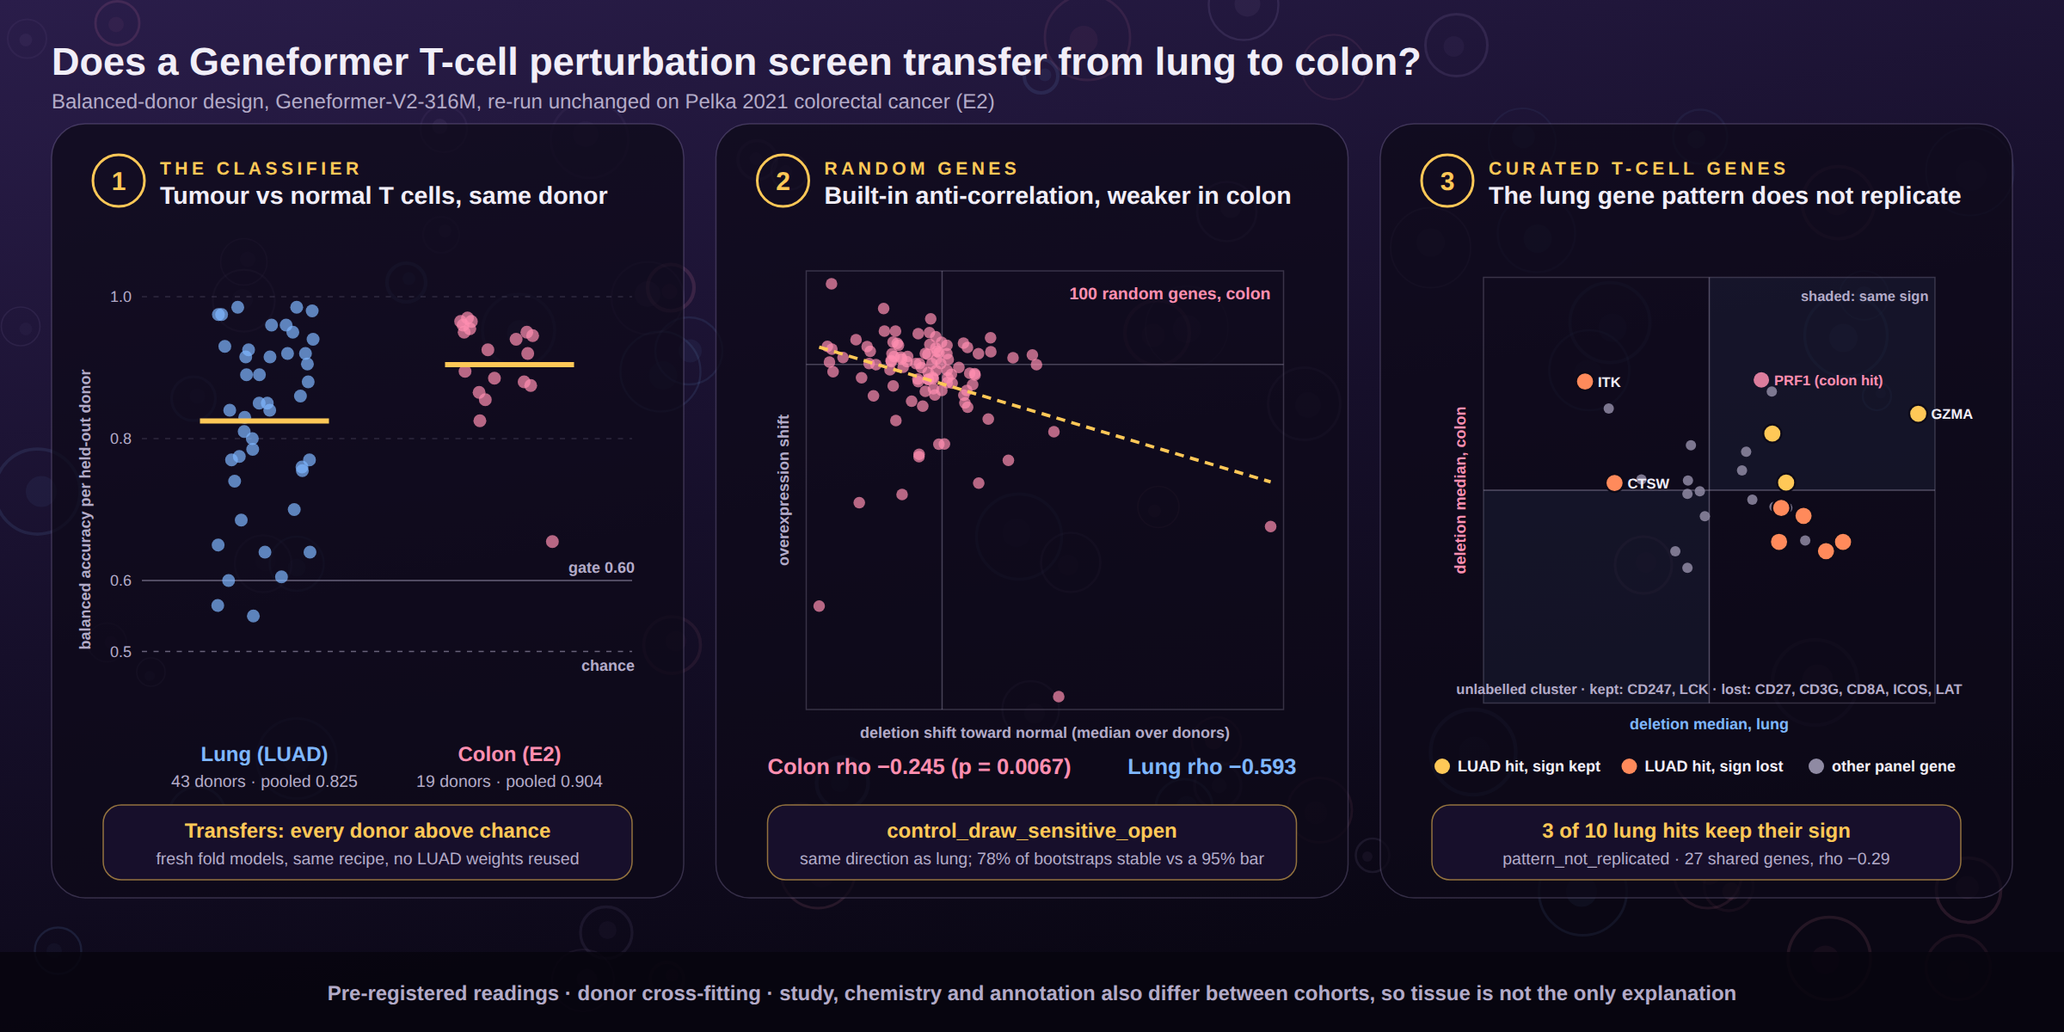
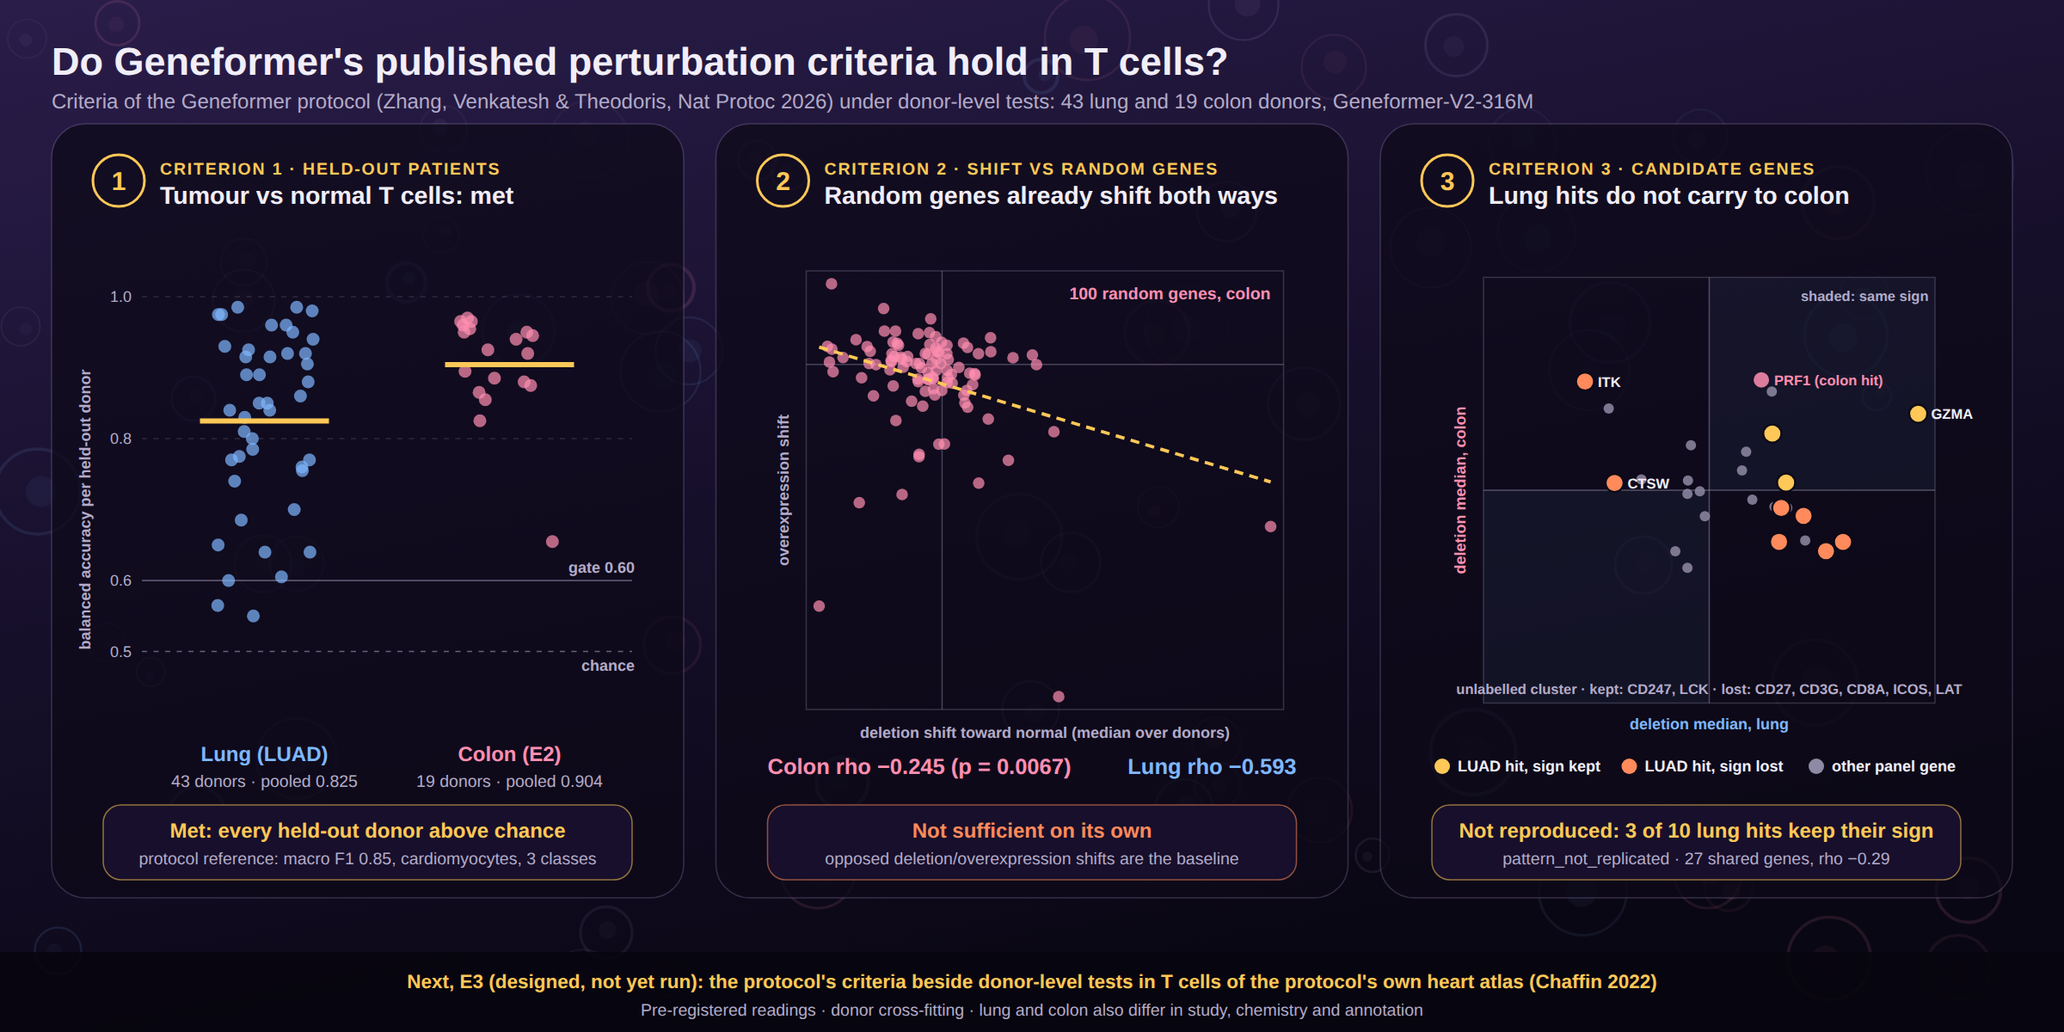
Graphical abstract reframed around the Geneformer protocol's criteria; E3 design
- docs/graphical-abstract: the three panels now test the protocol's
  evaluation criteria (Zhang, Venkatesh & Theodoris, Nat Protoc 2026):
  held-out-patient classification (met in lung and colon), the shift
  compared with random genes (not sufficient: random genes already give
  opposed deletion/overexpression shifts), and candidate genes (lung hits
  not reproduced in colon). The footer points to E3. Every number is still
  recomputed or checked against committed files.
- protocol_criteria_e3/E3_DESIGN.md: draft design, not registered and not
  run. It applies the protocol's criteria exactly as published, next to
  ISP-STD-1 donor-level tests, to T cells of the protocol's own example
  atlas (Chaffin et al. 2022), after a gating cardiomyocyte arm that must
  reproduce the protocol's macro F1 0.85 and its GSN result. Stage 0
  feasibility rule, hypotheses H3a-H3e and readings are fixed in advance.
  Needs the human's GO for the download and GPU time, and a gatekeeper pass.
- README: framing paragraph on the protocol's criteria and an E3 note.

Claude-Session: https://claude.ai/code/session_01HHetfVCDDo33ghsts68YFG

diff --git a/docs/graphical-abstract/build.py b/docs/graphical-abstract/build.py
@@ -69,6 +69,8 @@ in_readme(f"rho {prim['rho']:.3f} (p = {prim['p_lower_tail']:.4f})".replace("-",
 in_readme(f"only {round(100 * prim['bootstrap_fraction_stable'])}% of gene bootstraps")
 in_readme(f"`{prim['status']}`")
 in_readme("(rho −0.593)")
+in_readme("E3")
+in_readme("Chaffin")
 
 h2c = load("pelka_crc_e2/results/h2c_result.json")
 luad = {x["symbol"]: x for x in load("balanced_donor_luad/phase7_results/outcome_rows.json")
@@ -116,7 +118,7 @@ def frame(x0: float, num: str, kicker: str, title: str) -> str:
         f'stroke="#c9b8f0" stroke-opacity="0.22"/>',
         f'<circle cx="{x0 + 52}" cy="140" r="20" fill="none" stroke="{GOLD}" stroke-width="2"/>',
         text(x0 + 52, 147, num, 20, 800, GOLD, "middle"),
-        text(x0 + 84, 135, kicker, 14, 800, GOLD, extra='letter-spacing="3"'),
+        text(x0 + 84, 135, kicker, 13, 800, GOLD, extra='letter-spacing="1.2"'),
         text(x0 + 84, 158, title, 19, 700),
     ])
 
@@ -131,7 +133,7 @@ def callout(x0, y, line1, line2, col=GOLD):
 
 # ------------------------------------------------------------------ panel 1
 def panel_classifier(x0: float) -> str:
-    out = [frame(x0, "1", "THE CLASSIFIER", "Tumour vs normal T cells, same donor")]
+    out = [frame(x0, "1", "CRITERION 1 · HELD-OUT PATIENTS", "Tumour vs normal T cells: met")]
     lo, hi = 0.4, 1.0
     sy = lambda v: 560 - 330 * (v - lo) / (hi - lo)
     for v in (0.5, 0.6, 0.8, 1.0):
@@ -152,13 +154,13 @@ def panel_classifier(x0: float) -> str:
         out.append(text(cx, 610, f"{len(vals)} donors · pooled {pooled:.3f}", 13, 400, MUTED, "middle"))
     out.append(text(x0 + 30, sy(0.7), "balanced accuracy per held-out donor", 12, 600, MUTED, "middle",
                     f'transform="rotate(-90 {x0 + 30} {sy(0.7):.1f})"'))
-    out.append(callout(x0, 624, "Transfers: every donor above chance", "fresh fold models, same recipe, no LUAD weights reused"))
+    out.append(callout(x0, 624, "Met: every held-out donor above chance", "protocol reference: macro F1 0.85, cardiomyocytes, 3 classes"))
     return "\n".join(out)
 
 
 # ------------------------------------------------------------------ panel 2
 def panel_null(x0: float) -> str:
-    out = [frame(x0, "2", "RANDOM GENES", "Built-in anti-correlation, weaker in colon")]
+    out = [frame(x0, "2", "CRITERION 2 · SHIFT VS RANDOM GENES", "Random genes already shift both ways")]
     pad = 0.08
     xs, ys = dele, ovx
     xr = (min(xs), max(xs)); yr = (min(ys), max(ys))
@@ -182,14 +184,14 @@ def panel_null(x0: float) -> str:
     out.append(text(x0 + 430, 232, f"100 random genes, colon", 13, 700, COLON, "end"))
     out.append(text(x0 + 40, 600, f"Colon rho {prim['rho']:.3f} (p = {prim['p_lower_tail']:.4f})".replace("-", "\u2212"), 17, 800, COLON))
     out.append(text(x0 + 450, 600, "Lung rho −0.593", 17, 800, LUNG, "end"))
-    out.append(callout(x0, 624, "control_draw_sensitive_open",
-                       f"same direction as lung; {round(100 * prim['bootstrap_fraction_stable'])}% of bootstraps stable vs a 95% bar"))
+    out.append(callout(x0, 624, "Not sufficient on its own",
+                       "opposed deletion/overexpression shifts are the baseline", CORAL))
     return "\n".join(out)
 
 
 # ------------------------------------------------------------------ panel 3
 def panel_genes(x0: float) -> str:
-    out = [frame(x0, "3", "CURATED T-CELL GENES", "The lung gene pattern does not replicate")]
+    out = [frame(x0, "3", "CRITERION 3 · CANDIDATE GENES", "Lung hits do not carry to colon")]
     xs = [luad[g]["del_median"] for g in shared]
     ys = [crc[g]["del_median"] for g in shared]
     lim = max(abs(v) for v in xs + ys) * 1.08
@@ -226,7 +228,7 @@ def panel_genes(x0: float) -> str:
         cx = lx + 8 + j * 145
         out.append(f'<circle cx="{cx}" cy="{ly - 4}" r="6" fill="{col}"/>')
         out.append(text(cx + 12, ly, lab, 12, 600))
-    out.append(callout(x0, 624, f"{len(agree)} of {len(tested)} lung hits keep their sign",
+    out.append(callout(x0, 624, f"Not reproduced: {len(agree)} of {len(tested)} lung hits keep their sign",
                        f"pattern_not_replicated · {len(shared)} shared genes, rho {rho_b:.2f}".replace("-", "\u2212").replace("pattern\u2212not\u2212replicated", "pattern_not_replicated")))
     return "\n".join(out)
 
@@ -243,12 +245,12 @@ def svg() -> str:
     return "\n".join([
         f'<svg xmlns="http://www.w3.org/2000/svg" viewBox="0 0 {W} {H}" width="{W}" height="{H}" '
         f'font-family="Inter, \'Liberation Sans\', \'DejaVu Sans\', sans-serif">', DEFS, backdrop(),
-        text(40, 58, "Does a Geneformer T-cell perturbation screen transfer from lung to colon?", 30, 800),
-        text(40, 84, "Balanced-donor design, Geneformer-V2-316M, re-run unchanged on Pelka 2021 colorectal cancer (E2)", 16, 400, MUTED),
+        text(40, 58, "Do Geneformer's published perturbation criteria hold in T cells?", 30, 800),
+        text(40, 84, "Criteria of the Geneformer protocol (Zhang, Venkatesh & Theodoris, Nat Protoc 2026) under donor-level tests: 43 lung and 19 colon donors, Geneformer-V2-316M", 16, 400, MUTED),
         panel_classifier(40), panel_null(555), panel_genes(1070),
         f'<rect x="0" y="{H - 62}" width="{W}" height="62" fill="#07050e" fill-opacity="0.85"/>',
-        text(W / 2, H - 25, "Pre-registered readings · donor cross-fitting · study, chemistry and annotation also "
-             "differ between cohorts, so tissue is not the only explanation", 16, 600, MUTED, "middle"),
+        text(W / 2, H - 34, "Next, E3 (designed, not yet run): the protocol's criteria beside donor-level tests in T cells of the protocol's own heart atlas (Chaffin 2022)", 15, 700, GOLD, "middle"),
+        text(W / 2, H - 13, "Pre-registered readings · donor cross-fitting · lung and colon also differ in study, chemistry and annotation", 13, 400, MUTED, "middle"),
         "</svg>"])
 
 

diff --git a/protocol_criteria_e3/E3_DESIGN.md b/protocol_criteria_e3/E3_DESIGN.md
@@ -1,0 +1,138 @@
+# E3 design: the Geneformer protocol's evaluation criteria in T cells of the protocol's own atlas
+
+**Status: DRAFT DESIGN, not registered. Nothing has been downloaded, tokenised, fine-tuned or
+perturbed for E3.** Three things must happen before any compute:
+
+1. the human's GO for the data download (Stage 0, s.3) and for the GPU budget (s.7);
+2. a gatekeeper pass on this design;
+3. a registration commit that freezes it.
+
+After registration, nothing in this file may change except a dated deviation log appended at the end.
+
+- Written 2026-10-03 on branch `claude/te-work-analysis-9mg3lz` of `Kays3/geneformer-lung-tcell`.
+- Reference protocol: Zhang Y, Venkatesh MS, Theodoris CV. Discovery of candidate therapeutic targets
+  with Geneformer. *Nature Protocols* (2026), https://doi.org/10.1038/s41596-026-01364-8. Below, "the
+  protocol".
+- Reference atlas: Chaffin M, et al. Single-nucleus profiling of human dilated and hypertrophic
+  cardiomyopathy. *Nature* 608, 174–180 (2022), the protocol's example dataset (its reference 18).
+
+## 1. Why this study
+
+The protocol's published evaluation of a fine-tuned model and its in silico perturbation (ISP) rests on
+four criteria. Their worked example on the Chaffin atlas reports the value given for each.
+
+| # | Protocol criterion | Where in the protocol | Reported on the Chaffin atlas |
+|---|---|---|---|
+| P1 | Disease classification on held-out patients (split by `individual`, balanced on disease, age and sex), reported as a confusion matrix and macro F1 | Steps 19–21 | Single task, cardiomyocytes, nonfailing (NF, n = 9), hypertrophic (HCM, n = 11) and dilated (DCM, n = 9) cardiomyopathy: macro F1 85% |
+| P2 | Per-gene shift of the start state toward the goal state (`Shift_to_goal_end`), compared with perturbing random genes by Wilcoxon test, with BH correction; `Sig` = 1 if `Goal_end_FDR` < 0.05 | Step 26, `InSilicoPerturberStats(mode="goal_state_shift")` | DCM cardiomyocytes, goal NF, alternative HCM: genes that shift toward NF and away from HCM (Fig. 2b) |
+| P3 | Quantized and full-precision perturbation shifts agree | Steps 33–34 | Pearson r > 0.99 |
+| P4 | Experimental validation of a top-ranked target | Anticipated results | GSN knockout improved contractility in an iPSC model of DCM (from Theodoris et al. 2023) |
+
+This repository's T-cell studies apply a stricter standard (ISP-STD-1). It uses donor-level values,
+matched control genes, both deletion and overexpression, and a random-gene null for the two directions.
+
+In lung (43 donors) and colon (19 donors), the classifier criterion held. Its counterpart is the
+balanced-donor gate; pooled held-out balanced accuracy was 0.825 and 0.904, every donor above chance.
+
+The random-gene comparison did not hold up. Random genes alone give opposed deletion and
+overexpression shifts (rho −0.593 in lung, −0.245 in colon). So a gene with opposite effects in the two
+arms is the baseline, and a shift that beats random genes on pooled cells is not by itself evidence of
+specific regulation. The curated lung hits also did not replicate in colon: 3 of 10 kept their sign.
+
+Both cohorts are cancer T cells, a setting the protocol itself flags. Its Limitations say malignant cells
+were excluded from pretraining, so a cancer-tuned model may do better.
+
+E3 removes that objection. It applies the protocol's criteria, exactly as published, to cells of the
+protocol's own atlas. It first checks that our pipeline reproduces the protocol's cardiomyocyte result.
+Then, in the T cells of the same hearts, it reports P1 to P3 next to the ISP-STD-1 readings, gene by gene.
+
+## 2. Questions and hypotheses
+
+- **H3a (pipeline check, gating).** On Chaffin cardiomyocytes, the protocol's single-task recipe
+  reproduces its reported performance on held-out patients. The reading is `REPRODUCED` if macro F1 is
+  at least 0.80 (protocol: 0.85). The P2 run on DCM cardiomyocytes must also place GSN among genes with
+  `Sig` = 1 that shift toward NF. If either fails, E3 stops and is reported as a pipeline mismatch,
+  because nothing downstream could then be blamed on T cells.
+- **H3b (P1 in T cells).** A classifier fine-tuned on the atlas's T cells (or lymphocytes, s.3)
+  separates NF, HCM and DCM on held-out patients. It is reported with the protocol's metrics (confusion
+  matrix, macro F1) and with this repository's donor-level gate: per-donor balanced accuracy and an exact
+  sign test over held-out donors.
+- **H3c (P2 against ISP-STD-1), primary.** Among T-cell genes that the protocol's
+  `goal_state_shift` marks `Sig` = 1 toward NF (deletion, DCM start state), the share that also reaches a
+  positive ISP-STD-1 status, by the donor-level, control-adjusted, two-operation test, is below one half.
+  The share and its exact binomial 95% CI are reported whatever they are.
+- **H3d (the built-in null).** Across random eligible T-cell genes, deletion and overexpression shifts
+  toward NF are negatively rank-correlated. This is the lung and colon R3 test, run unchanged.
+- **H3e (P3, descriptive).** Quantized and full-precision shifts agree (Pearson r) on the T-cell P2 run.
+
+## 3. Stage 0: data and feasibility (CPU only, outcome-free)
+
+- **Source.** The Chaffin et al. 2022 single-nucleus atlas. The deposit and its accession are recorded
+  with sha256 in the registration; the protocol's Colab tutorial copy is also checked. Neither is
+  reachable from the session that wrote this draft (network policy), so nothing has been read yet.
+- **Ask first.** The download size and destination are put to the human before any byte is fetched.
+- **Cells.** T cells by the authors' annotation. If the atlas annotates only a lymphocyte class, that
+  class is used and every result says "lymphocytes". NK cells are excluded if annotated separately.
+- **Feasibility rule (registered before any count is read):**
+  - **GO:** at least 6 donors per class (NF, HCM, DCM), each with at least 50 nuclei.
+  - **GO-REDUCED:** fewer, but at least 6 donors with at least 50 nuclei in each of NF and DCM. E3 then
+    runs as NF against DCM, and HCM is dropped as the alternative state.
+  - **NO-GO:** anything less. E3 stops and reports the counts.
+- **Cap.** A fixed-seed draw of at most 100 analysis nuclei per donor, so every donor carries equal
+  weight. The rest form the training pool, at most 300 per donor.
+
+## 4. Design
+
+- **Model.** Geneformer-V2-316M, base weights pinned by sha256, bf16 with the registered tie-handling
+  fix. Fine-tuning follows the protocol's Step 18–19 recipe. Hyperparameters come from its Ray Tune
+  search run once on the training folds; the chosen values are frozen before any ISP.
+- **Splits.** Donor-disjoint k-fold cross-fitting (k = 5, seed fixed at registration). Splits are by
+  `individual`, balanced on disease, age and sex where the metadata allow. Every donor is scored only by
+  a model that never saw it, and eval donors are never used for selection.
+- **Arm P (protocol, as published).**
+  - `InSilicoPerturber` with `perturb_type` delete and overexpress, `genes_to_perturb="all"`, start
+    DCM, goal NF, alternative HCM, `emb_layer=0`, `emb_mode="cls"`.
+  - `InSilicoPerturberStats(mode="goal_state_shift")` writes `Shift_to_goal_end`,
+    `Goal_end_vs_random_pval`, `Goal_end_FDR` and `Sig`.
+  - Run with full precision and once with `model_type="CellClassifier"` quantized for P3.
+- **Arm S (ISP-STD-1).** The same fine-tuned fold models and the same DCM analysis nuclei.
+  - Per-donor mean shift from the raw per-cell output, never from `Shift_to_goal_end`.
+  - Adjusted against 20 matched control genes, matched on detection and rank.
+  - Exact two-sided Wilcoxon over donors, Holm within family, and dose concordance between deletion
+    and overexpression, all as in the balanced-donor LUAD registration.
+  - The random-gene null (100 genes, fresh seed) for H3d.
+- **Gene families.** Arm S cannot run on all genes; its cost is per gene and donor. It covers:
+  - every gene with `Sig` = 1 in Arm P (deletion, toward NF);
+  - an equal number of Arm P non-significant genes matched on detection;
+  - the 100 null genes.
+  If the `Sig` = 1 list exceeds the GPU budget (s.7), a fixed-seed sample is drawn from it, with the size
+  fixed at registration.
+
+## 5. Readings (fixed before any output)
+
+| Hypothesis | Reading if met | Reading if not |
+|---|---|---|
+| H3a | `REPRODUCED` | `PIPELINE_MISMATCH` (stop) |
+| H3b | `CLASSIFIER_PASS` (gate as in E2) | `CLASSIFIER_FAIL` (stop before ISP) |
+| H3c | `PROTOCOL_SIG_NOT_SUFFICIENT` (share < 0.5, upper CI < 0.5) | `PROTOCOL_SIG_SUPPORTED` (lower CI ≥ 0.5) or `UNDECIDED` (CI spans 0.5) |
+| H3d | `positive` / `control_draw_sensitive_open` / `negative`, as in E2 | as in E2 |
+| H3e | descriptive r with 95% CI | descriptive |
+
+## 6. Limits stated in advance
+
+- Disease is a between-donor label here, unlike the within-donor tumour and normal tissues of E1 and E2.
+  Any donor effect is therefore confounded with disease, and the sign test over held-out donors is the
+  guard.
+- Single-nucleus T-cell profiles are sparse, and cardiac T cells are few. A NO-GO in Stage 0 is a real
+  outcome and will be reported as such.
+- The protocol's P4 (experimental validation) cannot be tested computationally. E3 reports whether the
+  protocol's validated target (GSN) is reproduced in cardiomyocytes, nothing more.
+
+## 7. Compute and budget (to be confirmed with the human)
+
+- **Hosts.** thinkstation1 and thinkstation2 (GB10), the hosts of E1 and E2.
+- **Estimate.** Per-gene ISP cost in E2 ran about 2.5 times its registered prediction (E2 deviation D1),
+  so this estimate uses the E2 measurement directly. Arm P with all genes on DCM nuclei is the largest
+  item; the protocol puts a full screen at 12 h to 2 weeks. The registration states a GPU-hour ceiling
+  and a stop rule once Stage 0 has fixed the cell and gene counts.
+- **No new data** beyond the Chaffin atlas.

diff --git a/README.md b/README.md
@@ -33,9 +33,15 @@ the failed strict titration criterion without changing the approved wording.
 
 ## Latest studies: balanced-donor LUAD and E2 colorectal
 
-Two pre-registered studies rebuilt the screen around donor-paired tumour and
-normal T cells, then asked whether its results hold outside lung. Both final
-reports passed independent review.
+This repository tests the evaluation criteria that the Geneformer protocol
+([Zhang, Venkatesh & Theodoris, *Nature Protocols* 2026](https://doi.org/10.1038/s41596-026-01364-8))
+uses for a fine-tuned classifier and its in silico perturbation: held-out-patient
+classification, each gene's shift toward the goal state against random genes,
+and candidate targets. Two pre-registered studies rebuilt the screen around
+donor-paired tumour and normal T cells, then asked whether its results hold
+outside lung. Both final reports passed independent review. The classifier
+criterion held in both; the random-gene comparison and the candidate genes did
+not.
 
 ![Graphical abstract: lung-to-colon transfer of the balanced-donor design](docs/graphical-abstract/graphical-abstract.png)
 
@@ -47,6 +53,14 @@ reports passed independent review.
 A different result in colon cannot be put down to tissue alone. Study,
 dissociation, chemistry, annotation, the null-gene population and the fold
 models all differ, and 19 donors give less power per gene than 43.
+
+**Next, E3 (designed, not yet run).** Both cohorts are cancer T cells, a setting
+the protocol itself flags. E3 applies the protocol's criteria exactly as
+published, next to this repository's donor-level tests, to T cells of the
+protocol's own example atlas, the Chaffin et al. 2022 cardiomyopathy hearts. It
+first checks that the pipeline reproduces the protocol's cardiomyocyte result
+(macro F1 0.85, GSN). The design waits for a GO on the data download and GPU
+time: [`protocol_criteria_e3/E3_DESIGN.md`](protocol_criteria_e3/E3_DESIGN.md).
 
 This branch prioritizes the **17 July 2026** donor-held-out Geneformer workflow:
 21,000 naturally balanced CD4/CD8 T cells, a three-state LUAD/LUSC/normal
@@ -199,6 +213,7 @@ sclc_validation/                SCLC audit, SCLC/LUAD/normal perturbation, spati
 sclc_validation/immune_axis_test/  immune-axis tests, T2–T5 results, and T4 summaries
 balanced_donor_luad/            balanced-donor LUAD study: registration, results, IMRaD report
 pelka_crc_e2/                   E2 colorectal replication: registration, results, reports
+protocol_criteria_e3/           E3 design: protocol criteria in T cells of the Chaffin heart atlas
 docs/graphical-abstract/        graphical abstract and its generator
 archive/prior_nsclc_workflow/   Step1-Step7 notebooks and earlier evidence
 requirements.txt                lightweight environment specification

diff --git a/docs/graphical-abstract/README.md b/docs/graphical-abstract/README.md
@@ -1,9 +1,11 @@
 # Graphical abstract
 
-`graphical-abstract.png` (2400 × 1200) summarises whether the balanced-donor Geneformer design
-transfers from lung (43 LUAD donors) to colon (E2, 19 Pelka 2021 donors), in three panels: per-donor
-classifier balanced accuracy in both cohorts, the colon null-gene deletion/overexpression scatter
-(H2b), and lung against colon deletion medians for the shared Panel B genes (H2c).
+`graphical-abstract.png` (2400 × 1200) asks whether the evaluation criteria of the Geneformer protocol
+(Zhang, Venkatesh & Theodoris, *Nature Protocols* 2026) hold in T cells under donor-level tests, with one
+panel per criterion: held-out-patient classification (per-donor balanced accuracy in 43 lung and 19 colon
+donors), the comparison with random genes (the colon null-gene deletion/overexpression scatter, H2b), and
+candidate genes (lung against colon deletion medians for the shared Panel B genes, H2c). The footer points
+to E3, the designed study of the same criteria in T cells of the protocol's own heart atlas.
 
 `build.py` reads only committed result files and checks every quoted number against the "Latest
 studies" table in the top-level `README.md` before drawing. It recomputes the H2b Spearman rho from the
